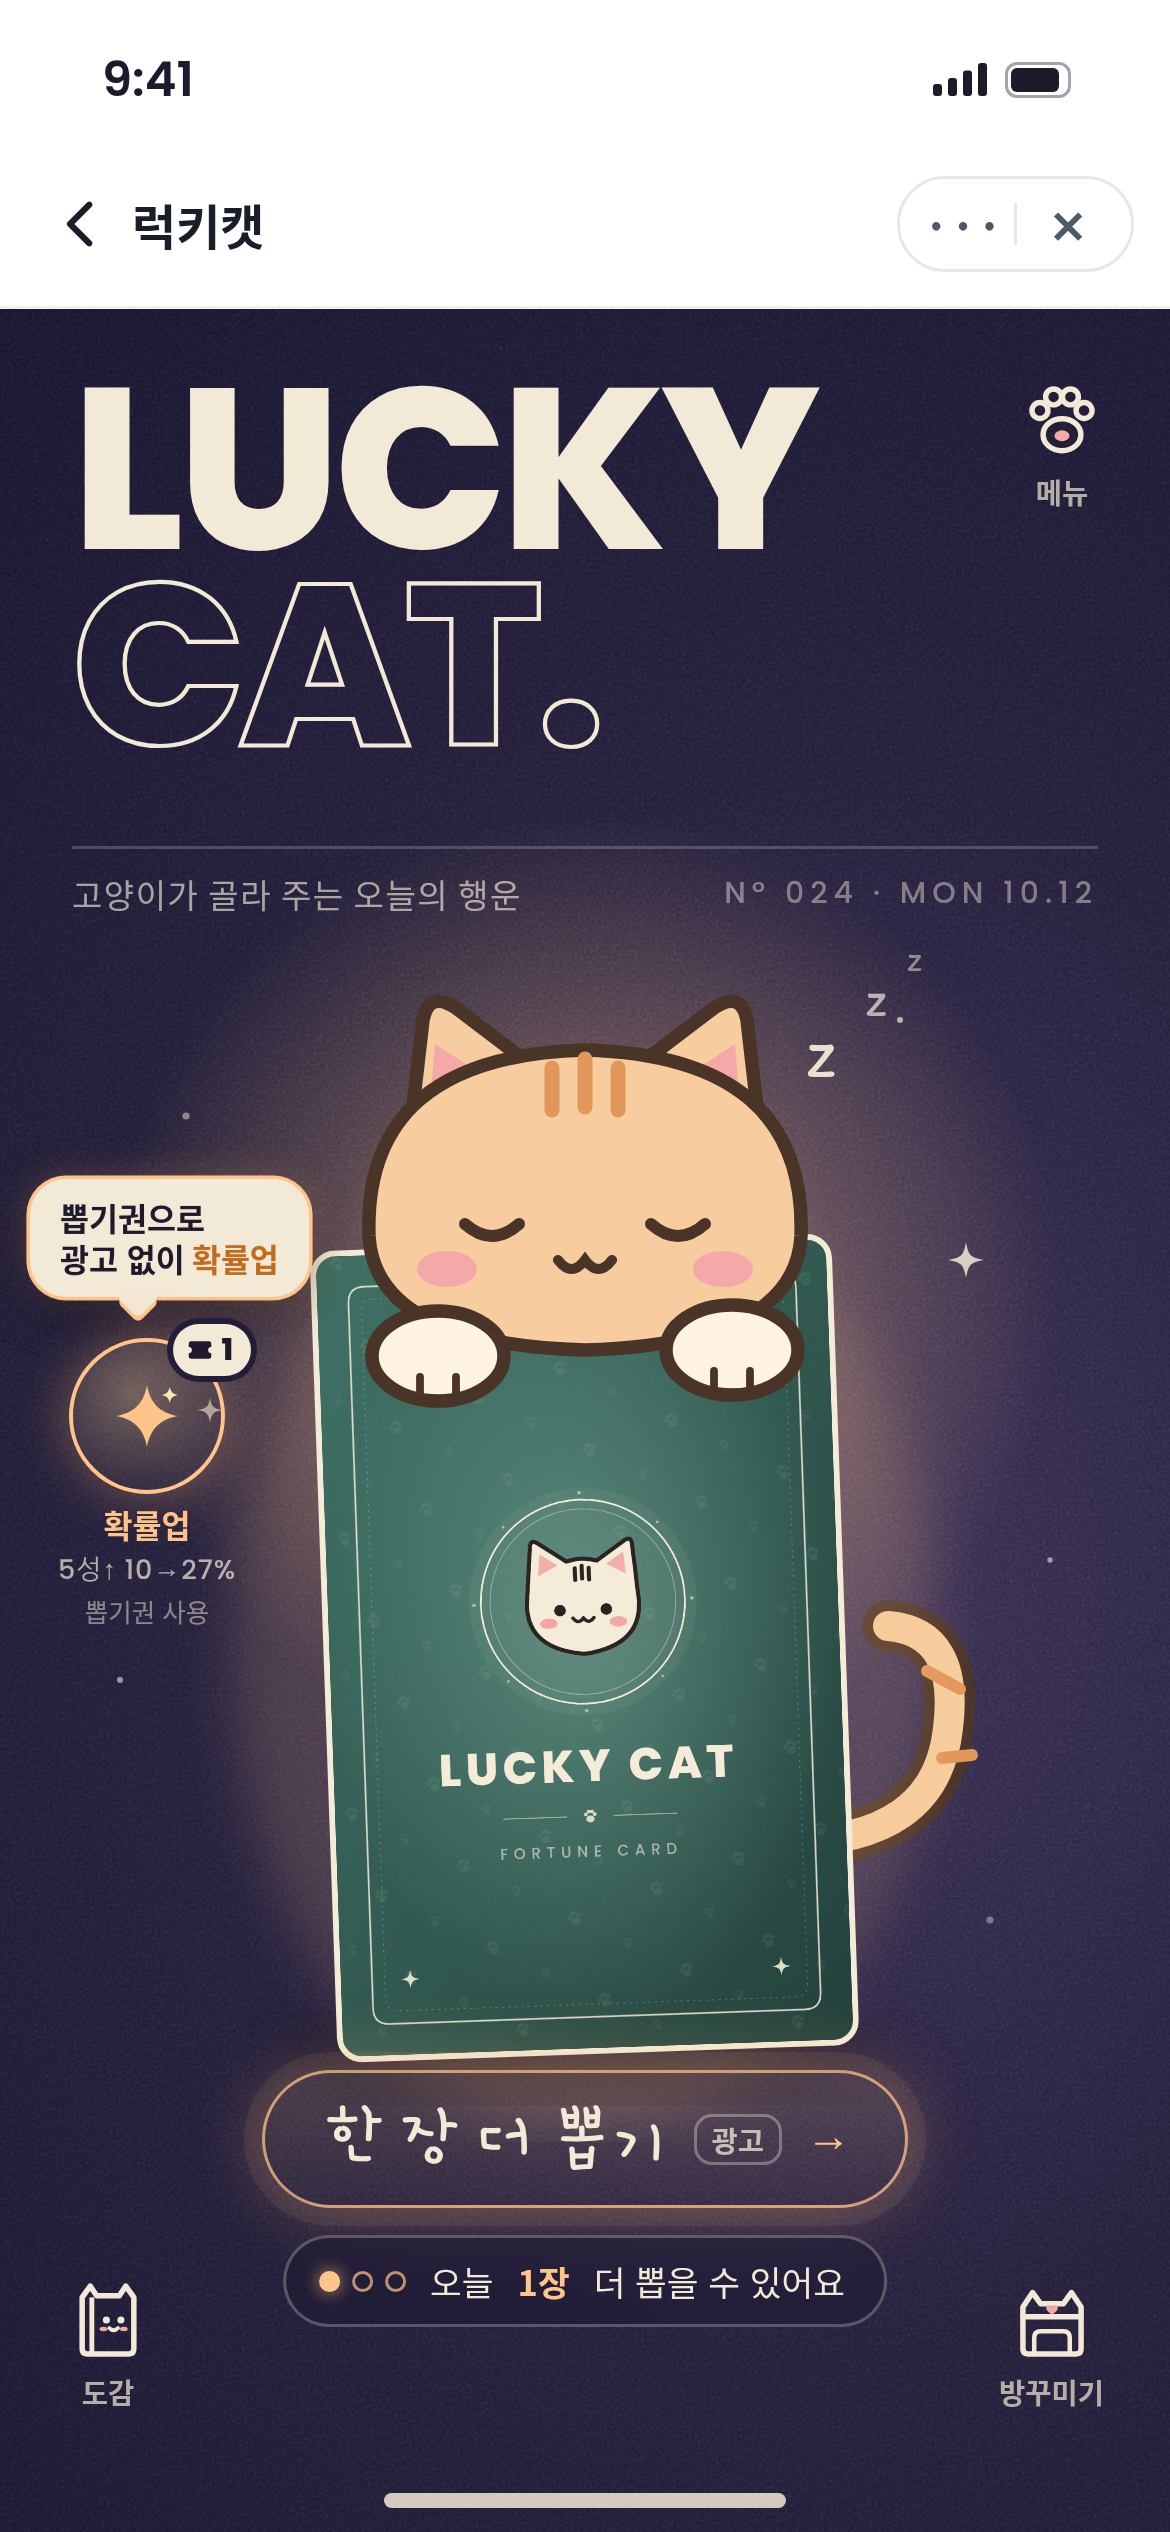
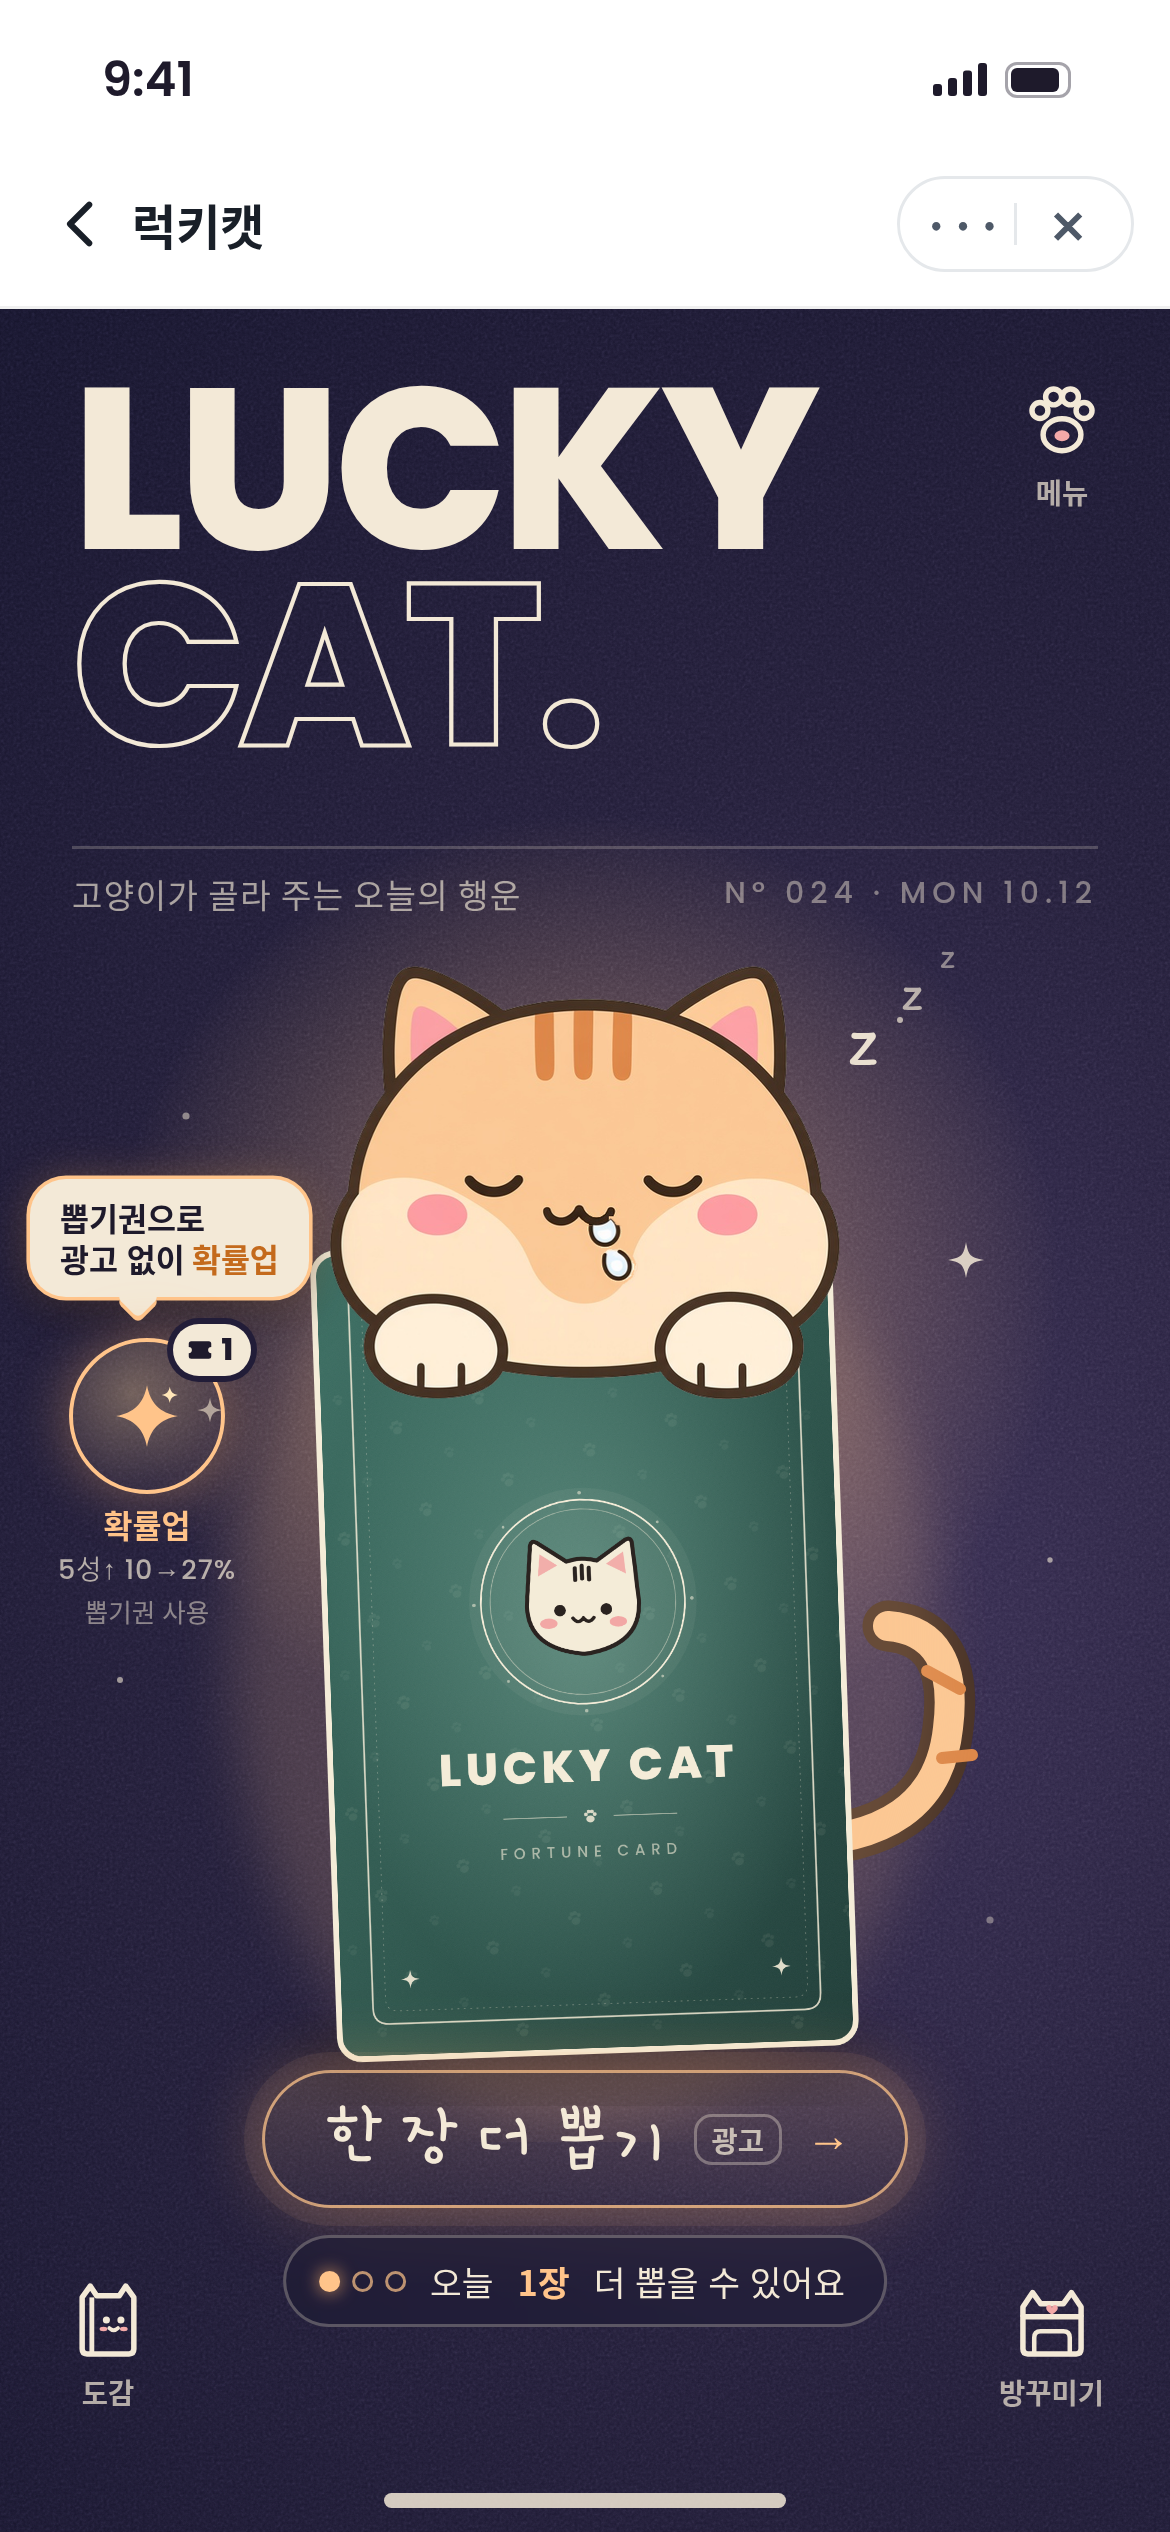
Update room assets

Changed region(s): [[0.2769, 0.3744, 0.7385, 0.5616], [0.7692, 0.3744, 0.8, 0.4056]]

diff --git a/public/assets/main/layout-spec.md b/public/assets/main/layout-spec.md
@@ -99,3 +99,16 @@ Fonts: **Poppins** ExtraBold 800 / Medium 500 (Latin), **Noto Sans KR** (CJK; mo
 - 조건: 오늘 광고 확률업을 썼고 + 뽑기권 0장 + 이번 주/오늘 구매 한도 남음.
 - 버튼은 흐리지 않고 그대로(amber), 아래 작은 글씨 "200P"(발바닥 아이콘 10pt), 말풍선 "**200P**로 / 광고 없이 확률업". 탭하면 `sheet:ticketShop`(메뉴 스펙 10장, ticket-shop.png).
 - 한도도 다 쓰면 기존 "내일 다시" 흐린 상태, 말풍선 없음. 포인트 부족이면 말풍선 대신 버튼 아래 "포인트 n P 부족"(cream 50 %).
+
+- 확률업 버튼 반짝이 아이콘 파일: `icon-rateup-sparkle.svg` (26pt), 뽑기권 배지 아이콘: `icon-ticket-badge.svg` (10~11pt).
+
+## 6. 고양이 레이어 교체 (2026-10-12, 더 귀여운 치즈냥)
+- Files (@3x, transparent, trimmed, 510×433 px = 170×144.3pt):
+  - cat-sleeping.png/.webp: head + paws + drool (static use)
+  - cat-sleeping-nodrool.png/.webp: same without drool (use this when animating drool)
+  - drool.png/.webp: 53×69 px = 17.7×23pt drool only. Offset inside cat box: x 84.7pt, y 83.3pt (3x px 254,250)
+  - cat-tail.png/.svg: same shape, recolored to #FBC895 / stripe #DC884A (outline #4A3428)
+  - removed old cat-sleeping.svg (vector head no longer matches)
+- Placement (stage 390×400 coords, same box as before): cat x 110, y 8, w 170, h 144.3. Paw bottoms land on the deck top edge (stage y≈152), centered at x 195. Tail stays behind the card at (252,218).
+- zzz text moved +12pt right (282,40 / 300,22 / 313,8) so it clears the right ear. The new-badge red dot on main-draws-3 is at (296,400) page coords.
+- Drool loop (optional): `transform-origin: 50% 0` (top, at mouth); scale 0.85→1.1→0.85 over 2.4s ease-in-out infinite, same period/phase as the breathing loop (inhale = grow). `prefers-reduced-motion: reduce` → no animation, show the static scale 1. Hide the drool layer (show nodrool only) while the card reveal plays.
